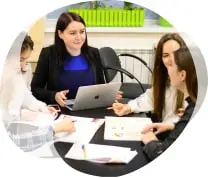
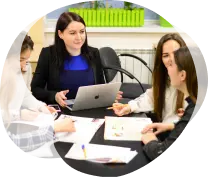
UPD#6 Исходники
замена картинок на герое (png и webp)
удаление лишних файлов после слияния

diff --git a/src/partials/hero.html b/src/partials/hero.html
@@ -16,26 +16,26 @@
                         /images/hero/hero-desktop@2x.webp 2x
                       " type="image/webp" />
                     <source media="(min-width: 1366px)" srcset="
-                        /images/hero/hero-desktop.jpg    1x,
-                        /images/hero/hero-desktop@2x.jpg 2x
+                        /images/hero/hero-desktop.png    1x,
+                        /images/hero/hero-desktop@2x.png 2x
                       " />
                     <source media="(min-width: 768px)" srcset="
                         /images/hero/hero-tab.webp    1x,
                         /images/hero/hero-tab@2x.webp 2x
                       " type="image/webp" />
                     <source media="(min-width: 768px)" srcset="
-                        /images/hero/hero-tab.jpg    1x,
-                        /images/hero/hero-tab@2x.jpg 2x
+                        /images/hero/hero-tab.png    1x,
+                        /images/hero/hero-tab@2x.png 2x
                       " />
                     <source media="(min-width: 320px)" srcset="
                         /images/hero/hero-mob.webp    1x,
                         /images/hero/hero-mob@2x.webp 2x
                       " type="image/webp" />
                     <source media="(min-width: 320px)" srcset="
-                        /images/hero/hero-mob.jpg    1x,
-                        /images/hero/hero-mob@2x.jpg 2x
+                        /images/hero/hero-mob.png    1x,
+                        /images/hero/hero-mob@2x.png 2x
                       " />
-                    <img src="/images/hero/hero-mob.jpg" alt="учитель на уроке" />
+                    <img src="/images/hero/hero-mob.png" alt="учитель на уроке" />
                 </picture>
             </div>
         </div>
